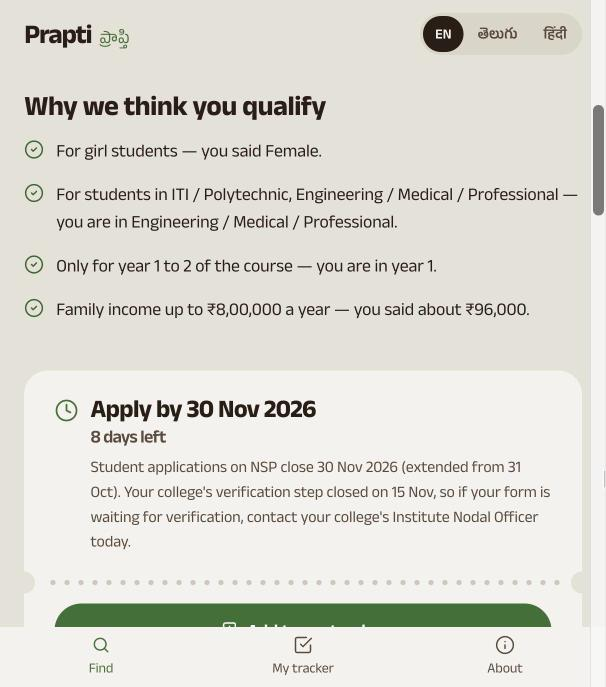
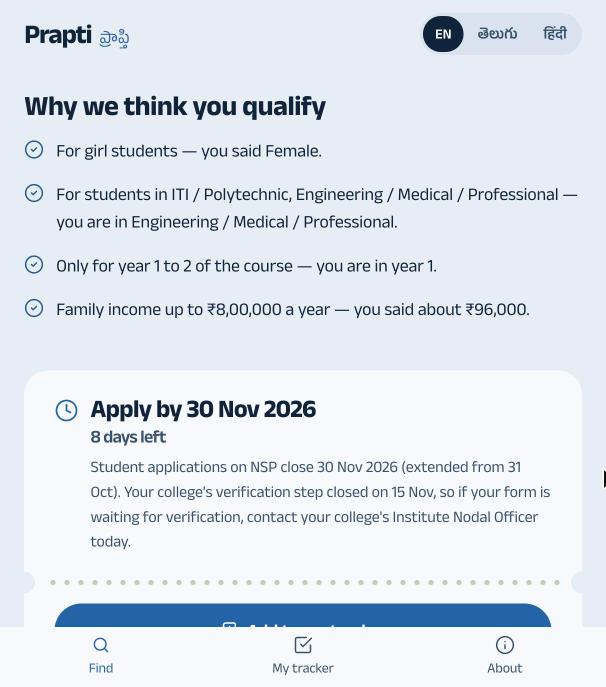
README screenshots in the new blue

diff --git a/README.md b/README.md
@@ -22,7 +22,7 @@ Paste any of these into the box on the home page:
 Or tap **Answer simple questions** for a no-typing path. The scheme editor (`/admin/schemes`, password `prapti-demo`) is a sandbox on the demo: your changes show up in your own results but nobody else's.
 
 <p>
-<img src="docs/screens/1-results.jpg" width="260" alt="Results: likely eligible for 4 schemes, worth up to ₹85,000 a year, with the first step">
+<img src="docs/screens/1-results.jpg" width="260" alt="Results: likely eligible for 5 schemes, worth up to ₹1,05,000 a year, with the first step">
 <img src="docs/screens/2-reasons.jpg" width="260" alt="Every rule as a sentence with the student's own answer, and the last date">
 <img src="docs/screens/3-one-trip.jpg" width="260" alt="One trip to Mee Seva: documents grouped by place, with a warning that the caste certificate takes longer than the days left">
 </p>
